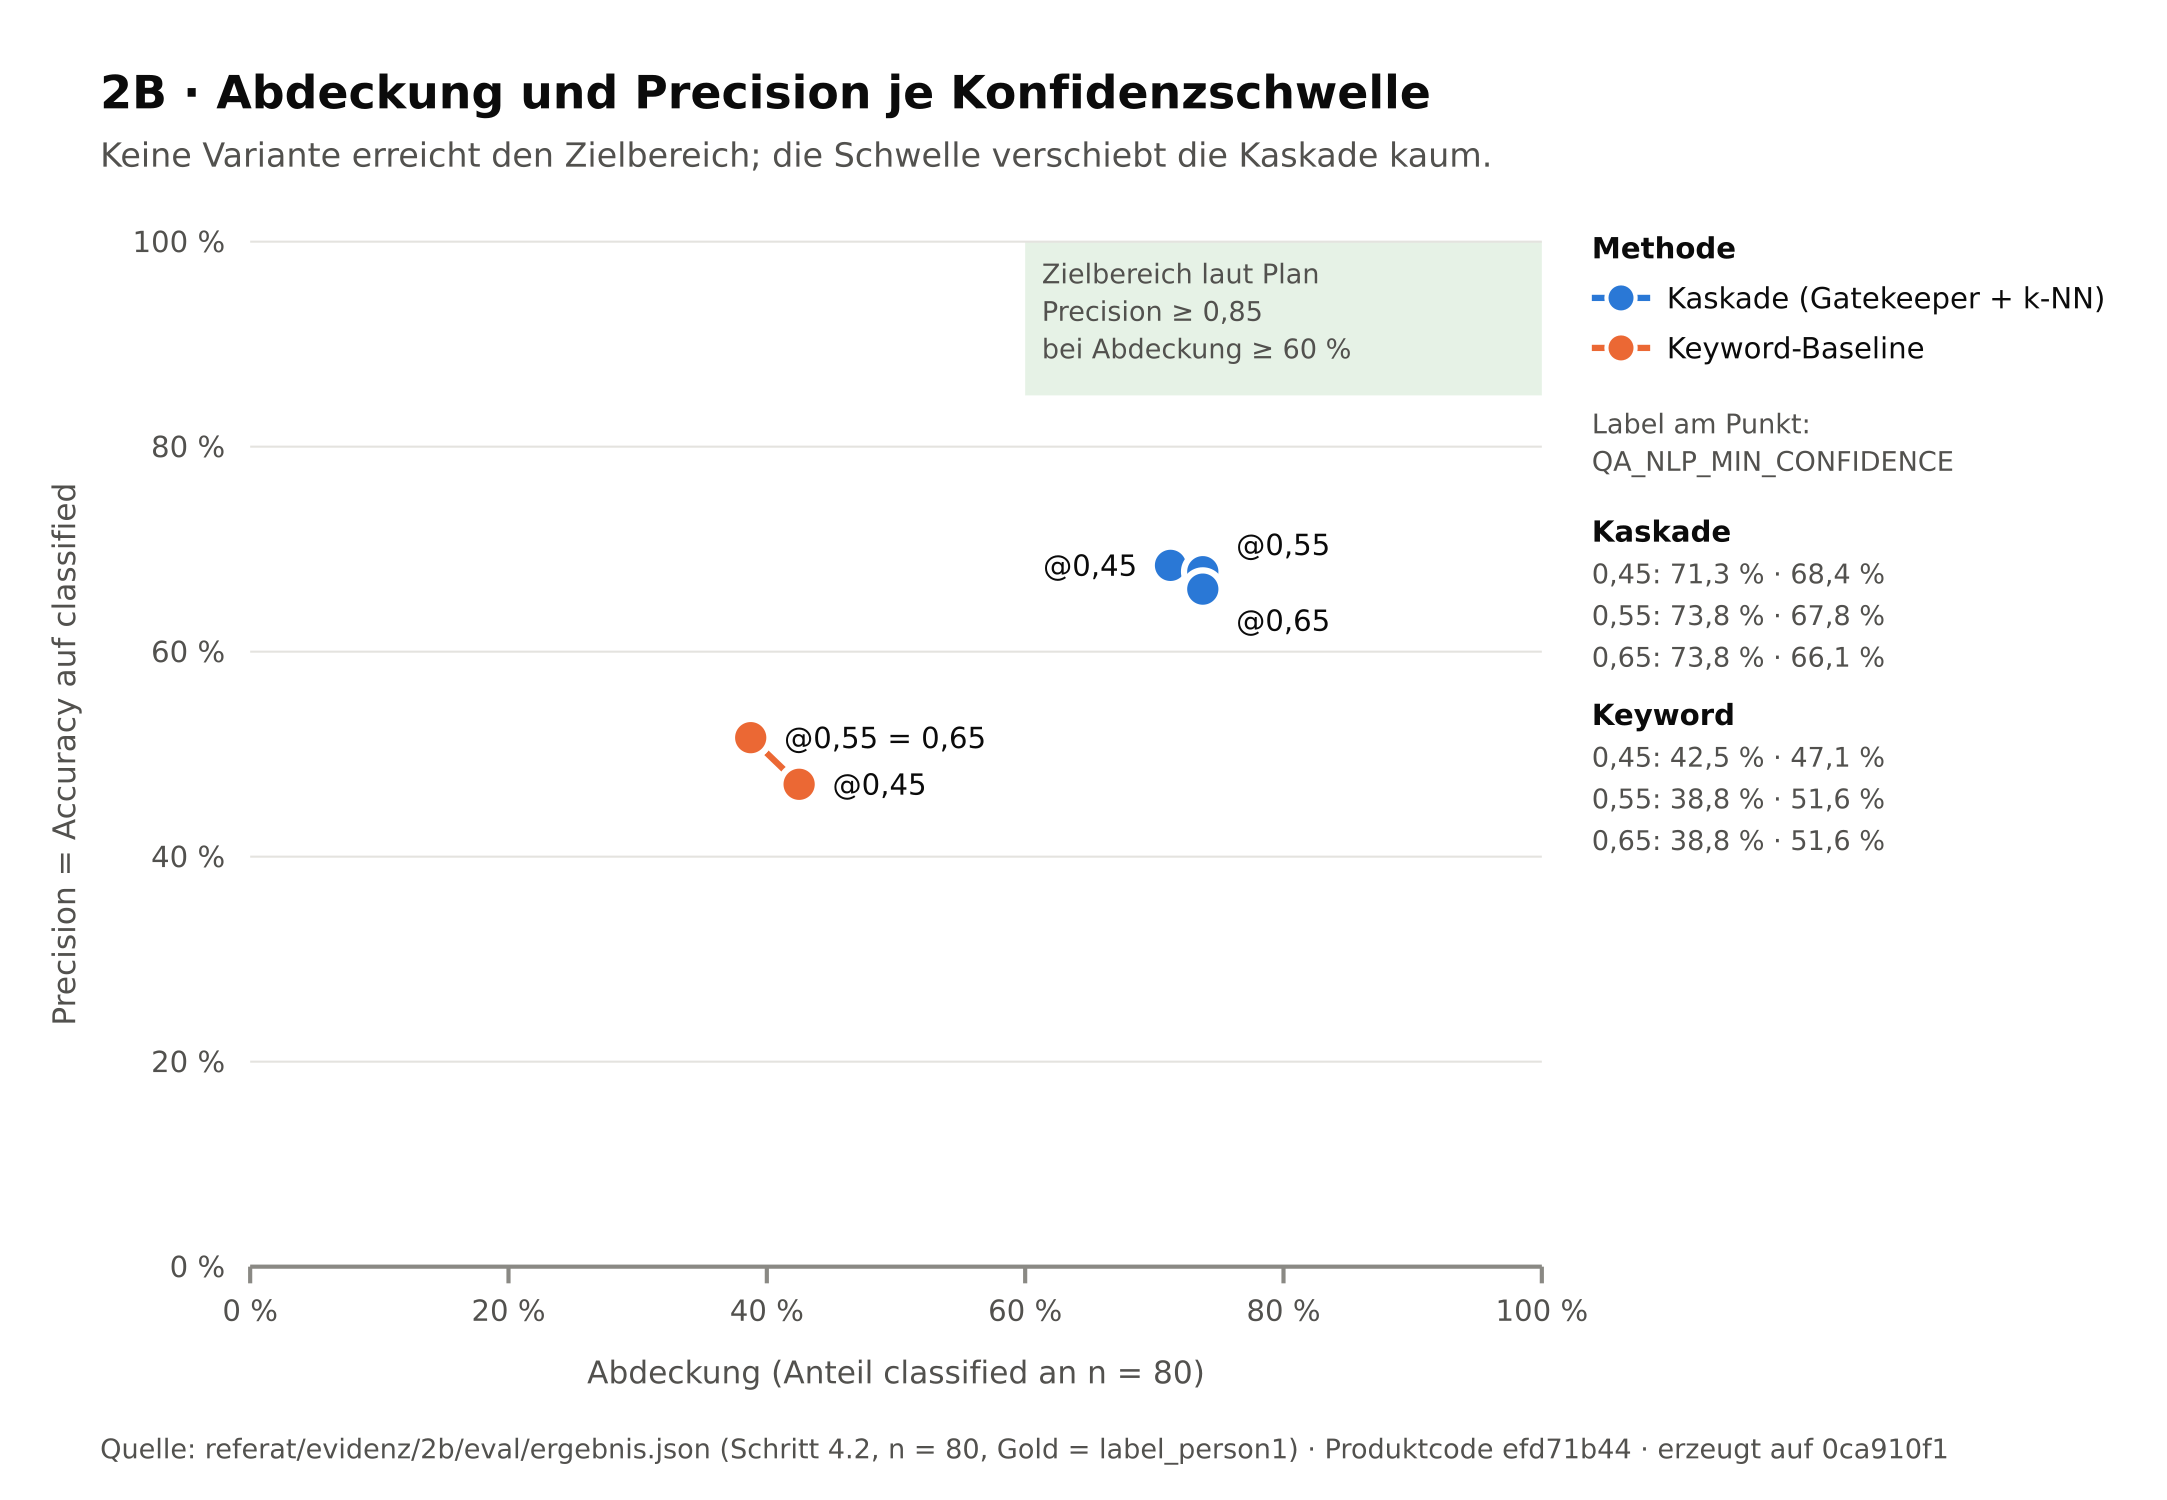
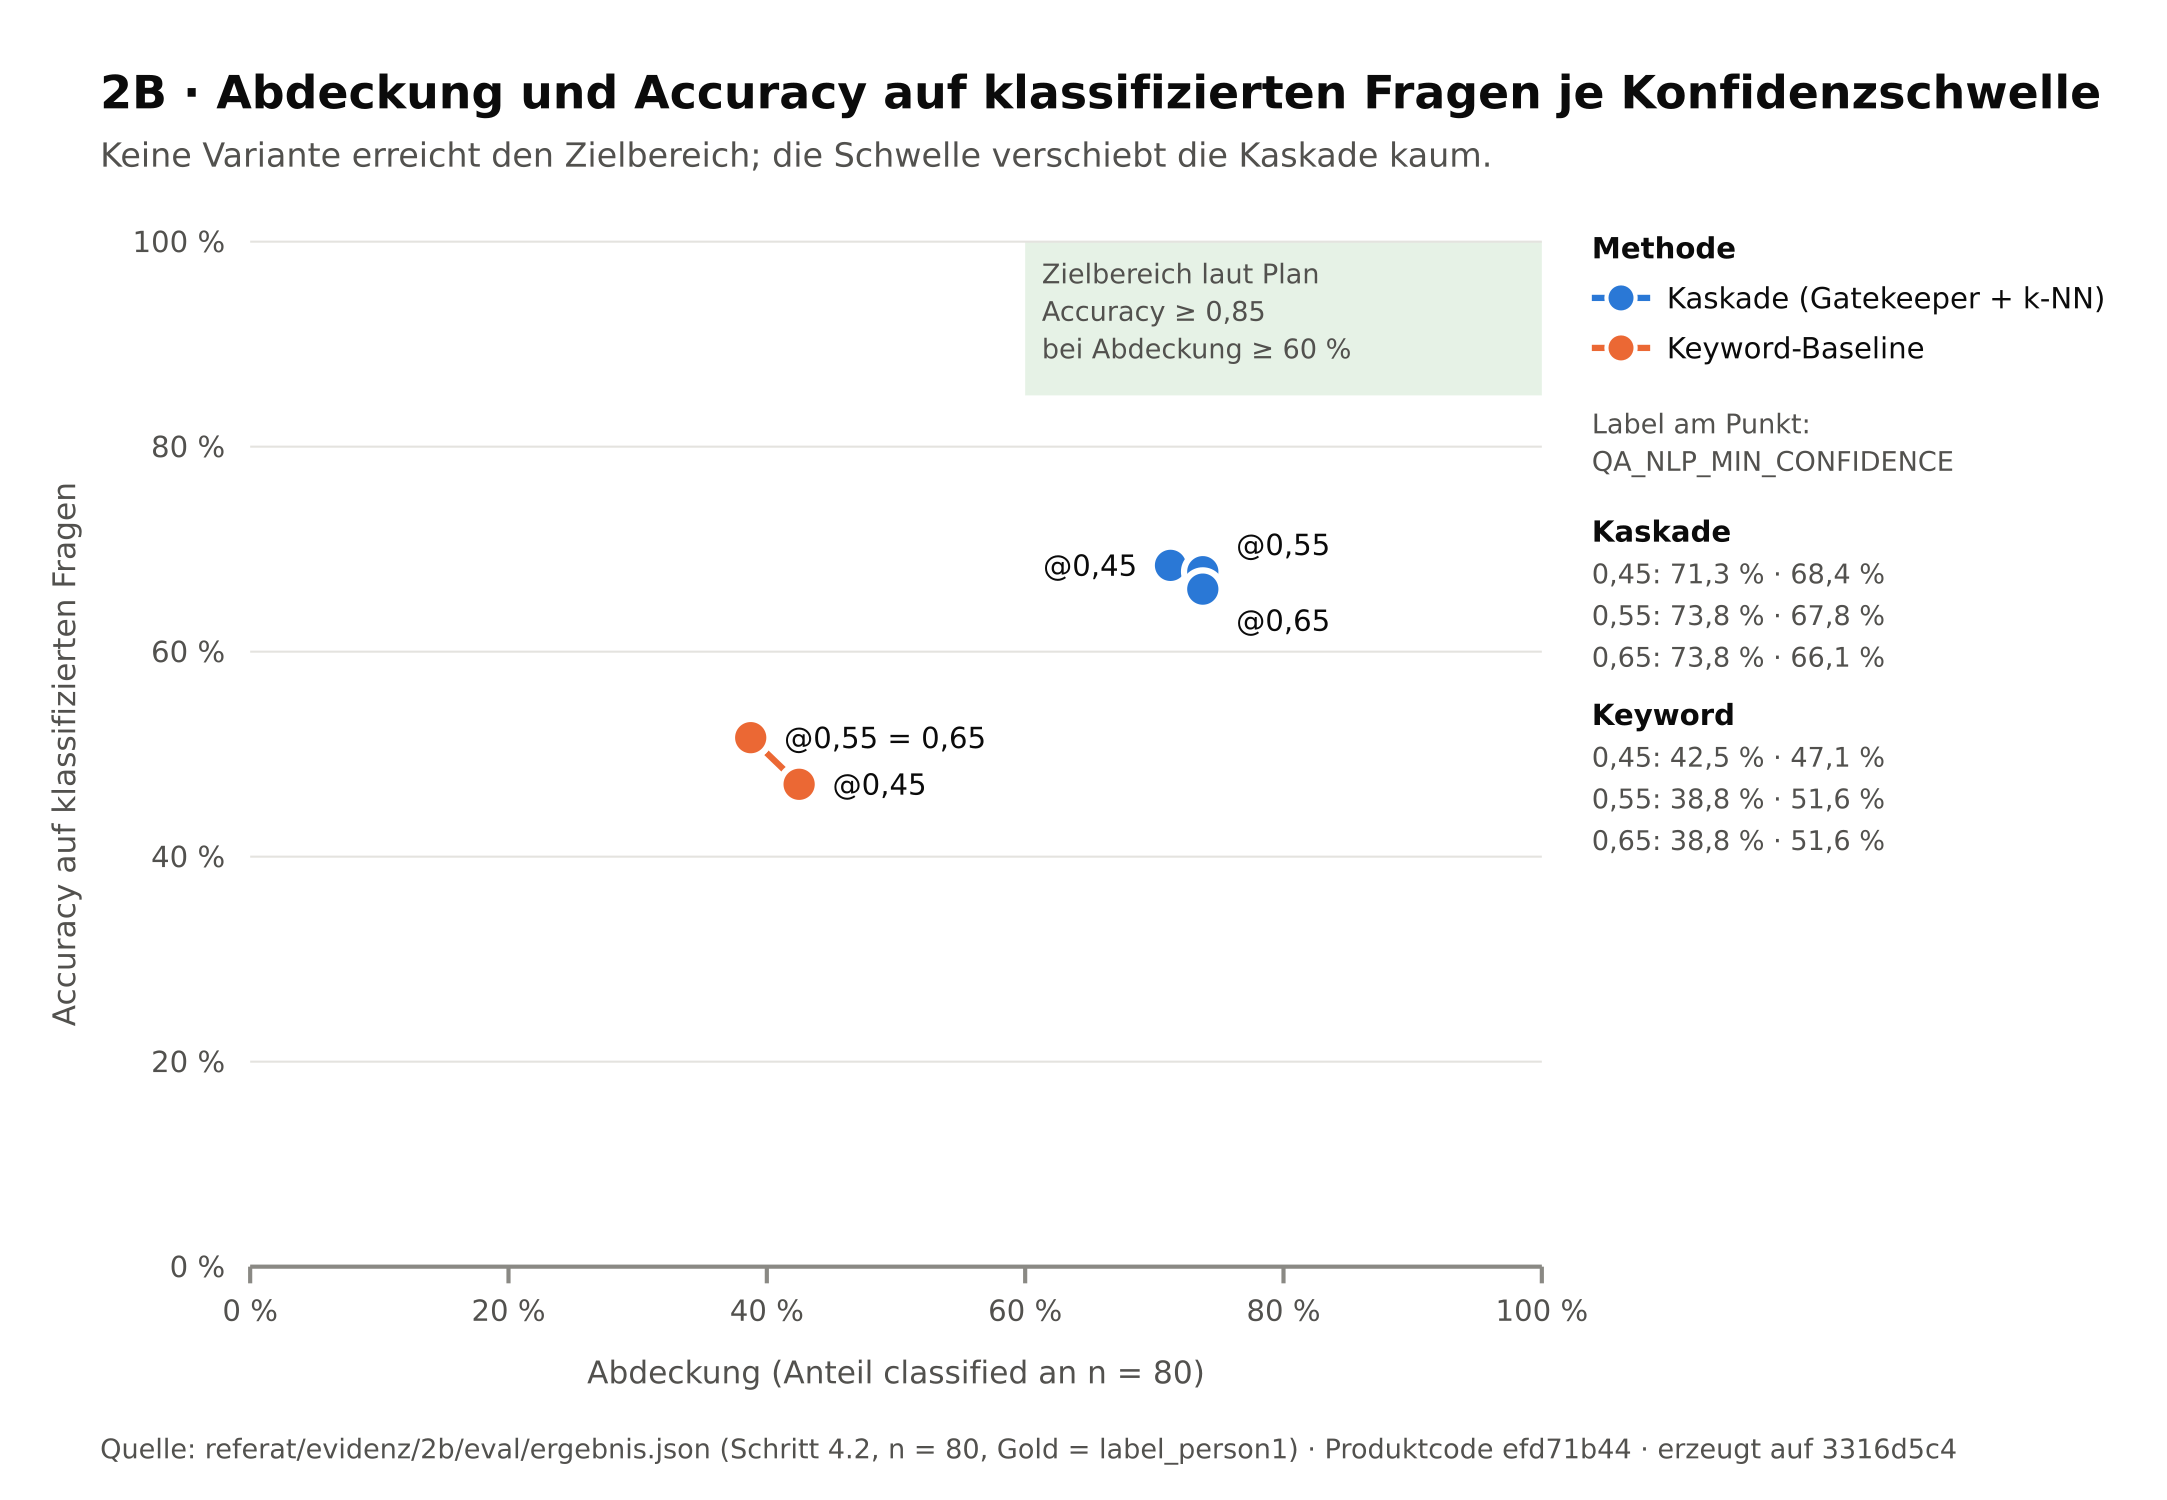
docs(referat): 2B Abbildung 1 – Beschriftung „Accuracy auf klassifizierten Fragen“ statt „Precision“

diff --git a/referat/2b/abbildungen.ts b/referat/2b/abbildungen.ts
@@ -2,7 +2,7 @@
  * ============================================================================
  * VERSUCHSCODE – KEIN PRODUKTPFAD (Referat Thema 2, Auftrag 2B, Schritt 6.1)
  * ============================================================================
- * Abbildungen aus Schritt 4.2: (1) Abdeckung vs. Precision (Accuracy auf classified) je Schwelle,
+ * Abbildungen aus Schritt 4.2: (1) Abdeckung vs. Accuracy auf klassifizierten Fragen je Schwelle,
  * (2) Reliability-Diagramm Kaskade und Keyword bei der Default-Schwelle 0,55.
  * Eingabe: referat/evidenz/2b/eval/ergebnis.json
  * Ausgabe: referat/evidenz/abbildungen/2b/ (PNG 300 dpi, SVG, index.md)
@@ -60,7 +60,7 @@ function abbildungSchwellen(): string {
   const t: string[] = [];
   t.push(rechteck(x(ZIEL_ABD), y(1), x(1) - x(ZIEL_ABD), y(ZIEL_PREC) - y(1), '#e6f2e6'));
   t.push(text(x(ZIEL_ABD) + 4, y(1) + 10, 'Zielbereich laut Plan', { groesse: 6.5, farbe: FARBE.text2 }));
-  t.push(text(x(ZIEL_ABD) + 4, y(1) + 19, 'Precision ≥ 0,85', { groesse: 6.5, farbe: FARBE.text2 }));
+  t.push(text(x(ZIEL_ABD) + 4, y(1) + 19, 'Accuracy ≥ 0,85', { groesse: 6.5, farbe: FARBE.text2 }));
   t.push(text(x(ZIEL_ABD) + 4, y(1) + 28, 'bei Abdeckung ≥ 60 %', { groesse: 6.5, farbe: FARBE.text2 }));
   for (let k = 0; k <= 10; k += 2) {
     t.push(linie(L, y(k / 10), R, y(k / 10), FARBE.gitter, 0.5));
@@ -70,7 +70,7 @@ function abbildungSchwellen(): string {
   }
   t.push(linie(L, U, R, U, FARBE.achse, 1));
   t.push(text(L + (R - L) / 2, U + 28, `Abdeckung (Anteil classified an n = ${daten.n})`, { groesse: 7.5, anker: 'middle', farbe: FARBE.text2 }));
-  t.push(text(18, O + (U - O) / 2, 'Precision = Accuracy auf classified', { groesse: 7.5, anker: 'middle', farbe: FARBE.text2, drehen: -90 }));
+  t.push(text(18, O + (U - O) / 2, 'Accuracy auf klassifizierten Fragen', { groesse: 7.5, anker: 'middle', farbe: FARBE.text2, drehen: -90 }));
 
   for (const m of METHODEN) {
     const pkt = SCHWELLEN.map((s) => ({ s, w: v(m.key, s) }));
@@ -121,7 +121,7 @@ function abbildungSchwellen(): string {
   return rahmen(
     B,
     H,
-    '2B · Abdeckung und Precision je Konfidenzschwelle',
+    '2B · Abdeckung und Accuracy auf klassifizierten Fragen je Konfidenzschwelle',
     'Keine Variante erreicht den Zielbereich; die Schwelle verschiebt die Kaskade kaum.',
     `Quelle: ${QUELLE} (Schritt 4.2, n = ${daten.n}, Gold = label_person1) · Produktcode efd71b44 · erzeugt auf ${head}`,
     t.join('\n'),
@@ -240,10 +240,10 @@ Datenquelle beider Abbildungen: \`${QUELLE}\` (Schritt 4.2, \`npx tsx referat/2b
 
 ## ${d1}
 
-![Abdeckung und Precision je Schwelle](${d1})
+![Abdeckung und Accuracy auf klassifizierten Fragen je Schwelle](${d1})
 
-- x = Abdeckung (Anteil classified), y = Accuracy auf classified (im Plan „Precision auf classified“). Je Methode drei Punkte für \`QA_NLP_MIN_CONFIDENCE\` = 0,45 / 0,55 / 0,65, in dieser Reihenfolge verbunden.
-- Grün hinterlegt: Zielbereich aus dem Plan (Precision ≥ 0,85 bei Abdeckung ≥ 60 %).
+- x = Abdeckung (Anteil classified), y = Accuracy auf klassifizierten Fragen (im Plan ursprünglich „Precision auf classified“ genannt). Je Methode drei Punkte für \`QA_NLP_MIN_CONFIDENCE\` = 0,45 / 0,55 / 0,65, in dieser Reihenfolge verbunden.
+- Grün hinterlegt: Zielbereich aus dem Plan (Accuracy auf klassifizierten Fragen ≥ 0,85 bei Abdeckung ≥ 60 %).
 - Keyword @0,55 und @0,65 sind identisch und als ein Punkt beschriftet. Die Kaskade wird von 0,45 auf 0,55 *abdeckender* (nicht monoton, siehe \`ergebnis.md\` Beobachtung 4).
 
 | Variante | classified | Abdeckung | Accuracy (classified) |

diff --git a/referat/evidenz/abbildungen/2b/index.md b/referat/evidenz/abbildungen/2b/index.md
@@ -1,14 +1,14 @@
 # Abbildungen 2B
 
-Erzeugt mit `npx tsx referat/2b/abbildungen.ts` · Arbeitsstand `0ca910f1` · Produktcode 1.3.0 `efd71b44` · PNG 300 dpi, SVG daneben als Quelle.
+Erzeugt mit `npx tsx referat/2b/abbildungen.ts` · Arbeitsstand `3316d5c4` · Produktcode 1.3.0 `efd71b44` · PNG 300 dpi, SVG daneben als Quelle.
 Datenquelle beider Abbildungen: `referat/evidenz/2b/eval/ergebnis.json` (Schritt 4.2, `npx tsx referat/2b/eval.ts`), Referenzmenge `referat/2b/referenz.csv` mit n = 80, Gold = `label_person1` (eine labelnde Person).
 
 ## abdeckung-precision-schwellen.png
 
-![Abdeckung und Precision je Schwelle](abdeckung-precision-schwellen.png)
+![Abdeckung und Accuracy auf klassifizierten Fragen je Schwelle](abdeckung-precision-schwellen.png)
 
-- x = Abdeckung (Anteil classified), y = Accuracy auf classified (im Plan „Precision auf classified“). Je Methode drei Punkte für `QA_NLP_MIN_CONFIDENCE` = 0,45 / 0,55 / 0,65, in dieser Reihenfolge verbunden.
-- Grün hinterlegt: Zielbereich aus dem Plan (Precision ≥ 0,85 bei Abdeckung ≥ 60 %).
+- x = Abdeckung (Anteil classified), y = Accuracy auf klassifizierten Fragen (im Plan ursprünglich „Precision auf classified“ genannt). Je Methode drei Punkte für `QA_NLP_MIN_CONFIDENCE` = 0,45 / 0,55 / 0,65, in dieser Reihenfolge verbunden.
+- Grün hinterlegt: Zielbereich aus dem Plan (Accuracy auf klassifizierten Fragen ≥ 0,85 bei Abdeckung ≥ 60 %).
 - Keyword @0,55 und @0,65 sind identisch und als ein Punkt beschriftet. Die Kaskade wird von 0,45 auf 0,55 *abdeckender* (nicht monoton, siehe `ergebnis.md` Beobachtung 4).
 
 | Variante | classified | Abdeckung | Accuracy (classified) |
